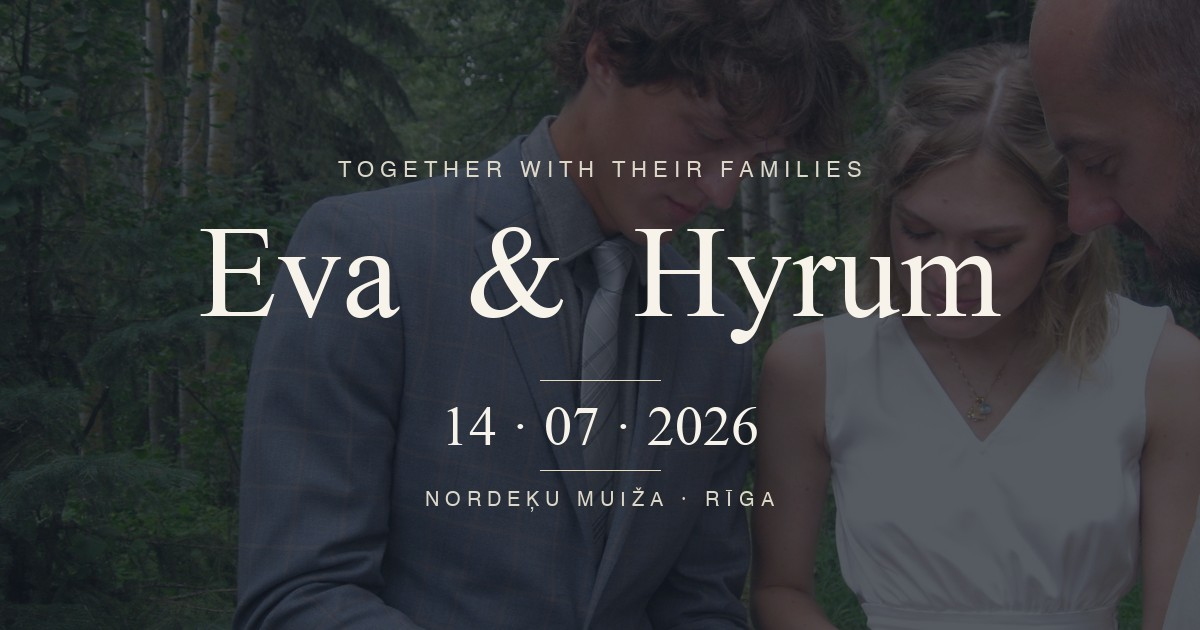
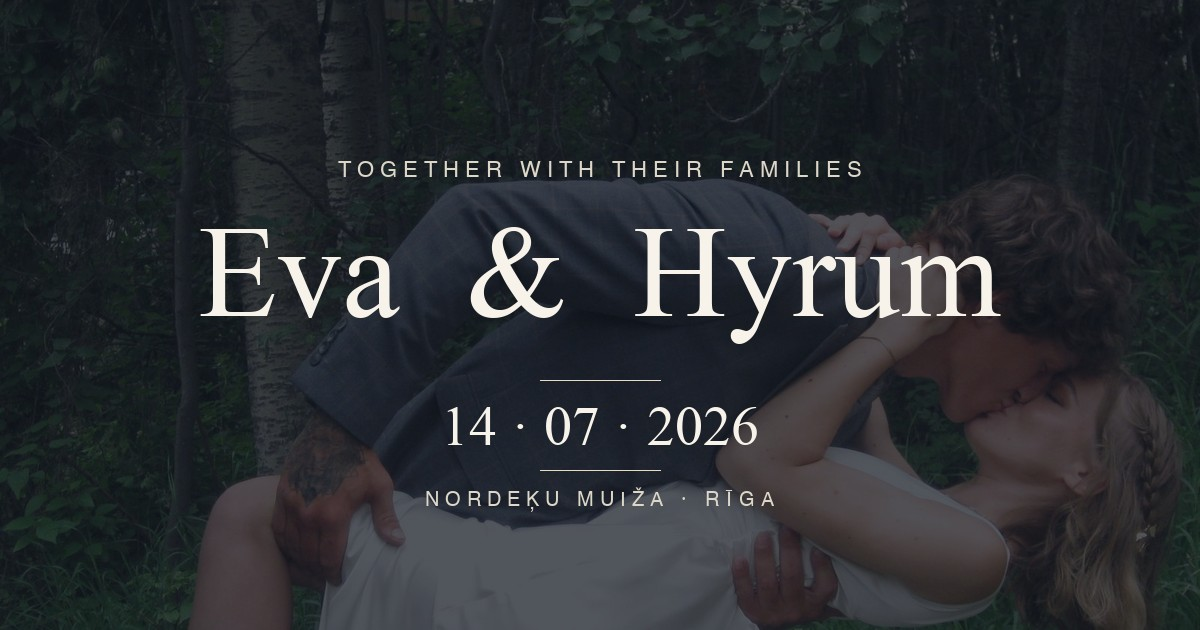
Swap hero photo to dip-kiss image, regenerate OG, bump cache

diff --git a/styles.css b/styles.css
@@ -124,8 +124,8 @@ span.amp[data-lang],
   width: 100%;
   height: 100%;
   object-fit: cover;
-  object-position: 50% 32%;
-  filter: brightness(0.82) saturate(0.88);
+  object-position: 60% 25%;
+  filter: brightness(0.78) saturate(0.9);
   z-index: 0;
 }
 .hero-overlay {
@@ -643,10 +643,10 @@ span.amp[data-lang],
     position: relative;
     width: 100%;
     height: auto;
-    aspect-ratio: 1 / 1;
+    aspect-ratio: 4 / 5;
     object-fit: cover;
-    object-position: 72% 22%;
-    filter: brightness(0.95) saturate(0.92);
+    object-position: 55% 30%;
+    filter: brightness(0.96) saturate(0.95);
   }
   .hero-overlay { display: none; }
   .hero-content {

diff --git a/index.html b/index.html
@@ -28,7 +28,7 @@
   <link rel="preconnect" href="https://fonts.googleapis.com" />
   <link rel="preconnect" href="https://fonts.gstatic.com" crossorigin />
   <link href="https://fonts.googleapis.com/css2?family=Cormorant+Garamond:ital,wght@0,300;0,400;0,500;0,600;1,300;1,400&family=Inter:wght@300;400;500;600&display=swap" rel="stylesheet" />
-  <link rel="stylesheet" href="styles.css?v=20260512-2" />
+  <link rel="stylesheet" href="styles.css?v=20260513-1" />
 </head>
 <body>
 
@@ -332,6 +332,6 @@
     </div>
   </footer>
 
-  <script src="script.js?v=20260512-2"></script>
+  <script src="script.js?v=20260513-1"></script>
 </body>
 </html>
